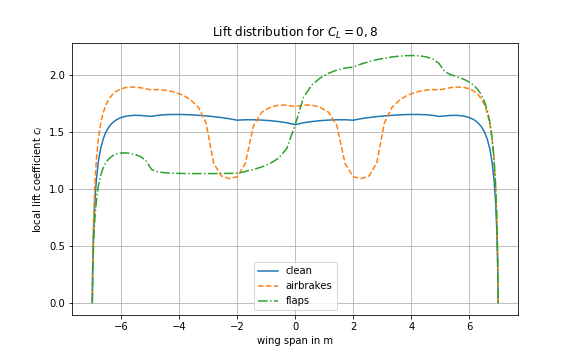
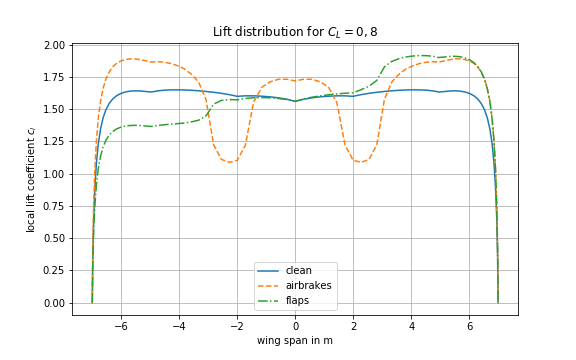
fix flap calculation

diff --git a/wingstructure/analysis.py b/wingstructure/analysis.py
@@ -90,7 +90,7 @@ class LiftAnalysis(object):
             
         for ii, span_pos in enumerate(self.calc_ys):
             
-            if flap.chordpos_at(span_pos) < 1.0 and span_pos > 0:
+            if flap.chordpos_at(span_pos) >= 0.0 and span_pos > 0:
                 
                 lambda_k = 1-flap.chordpos_at(span_pos)
                 

diff --git a/wingstructure/data/geometry.py b/wingstructure/data/geometry.py
@@ -373,7 +373,7 @@ class ControlSurface(object):
         """
 
         return np.interp(span_pos, [self.y_start, self.y_end], [self.chord_start, self.chord_end],
-                         right=0.0, left=0.0)
+                         right=-1.0, left=-1.0)
 
     def __lt__(self, other) -> bool:
         return self.y_start < other.y_start
